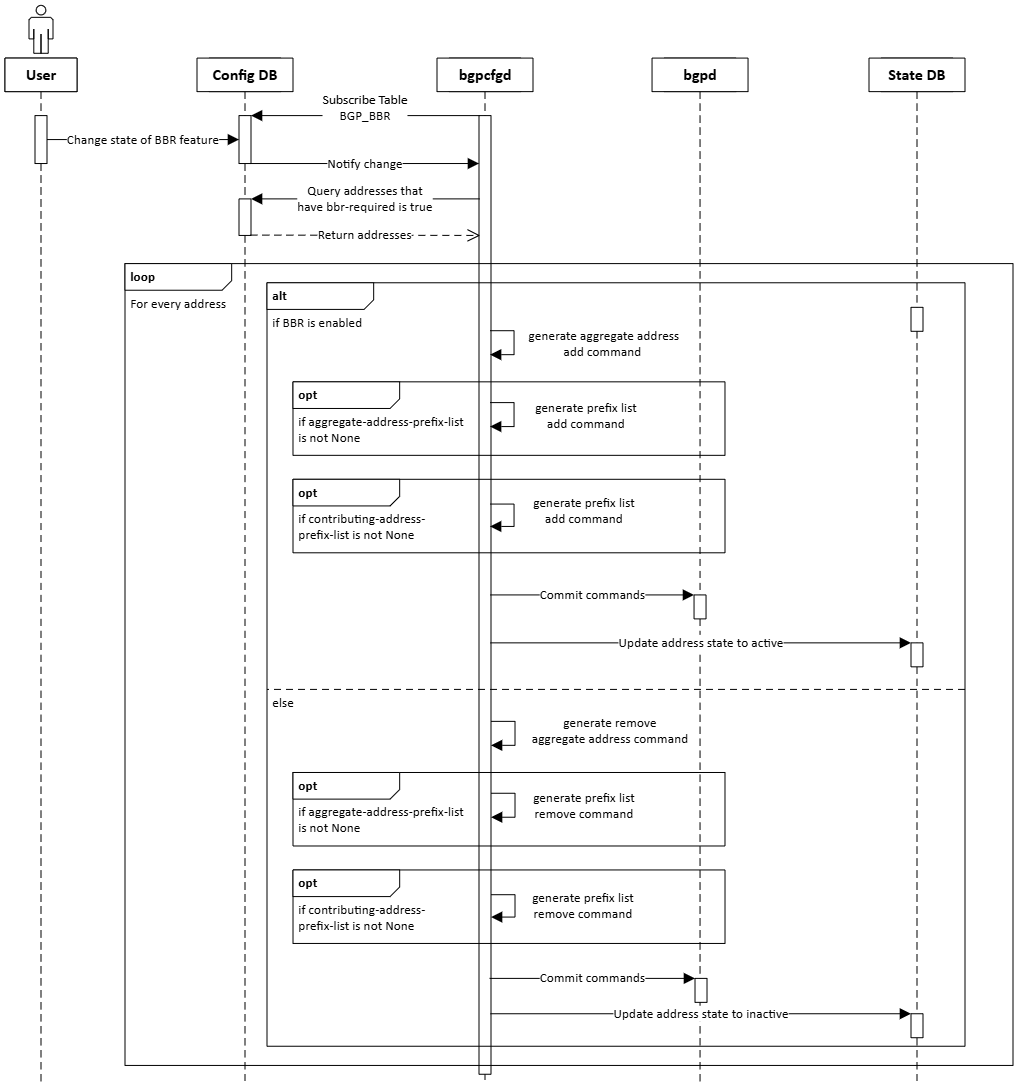
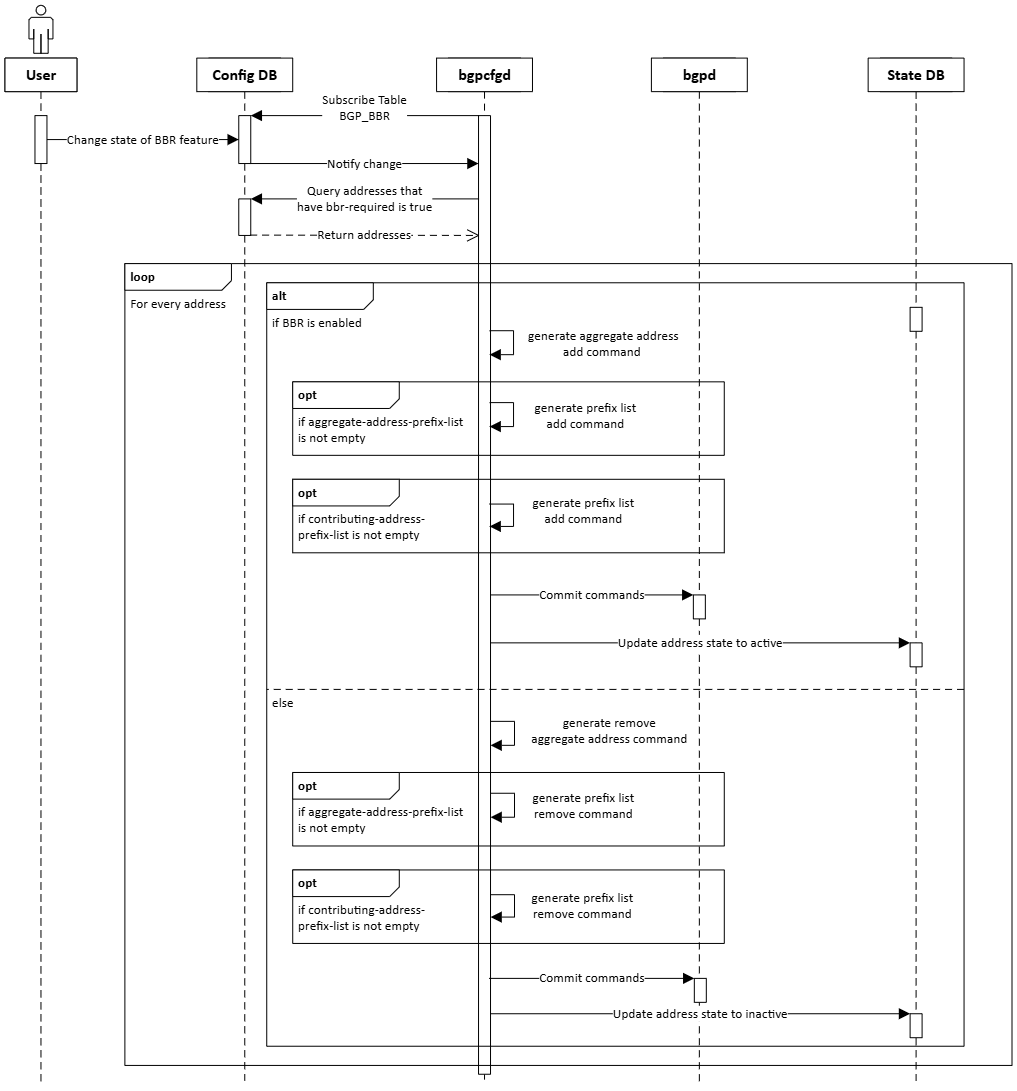
add default value for parameters and update prefix list default from None to empty string

diff --git a/doc/BGP/BGP-route-aggregation-with-bbr-awareness.md b/doc/BGP/BGP-route-aggregation-with-bbr-awareness.md
@@ -69,6 +69,7 @@ The YANG model and config DB demo are showed in below:
 #### Yang Model
 ```
 module sonic-bgp-aggregate-address {
+
     namespace "http://github.com/sonic-net/sonic-bgp-aggregate-address";
 
     prefix bgp-aggregate-address;
@@ -111,27 +112,36 @@ module sonic-bgp-aggregate-address {
 
                 leaf bbr-required {
                     type boolean;
+                    default false;
                     description "Set if BBR is required for generating aggregate address";
                 }
 
                 leaf summary-only {
                     type boolean;
+                    default false;
                     description "Only advertise the summary of aggregate address";
                 }
 
                 leaf as-set {
                     type boolean;
+                    default false;
                     description "Set if include the AS set when advertising the aggregated address";
                 }
 
                 leaf aggregate-address-prefix-list {
-                    type string;
-                    description "The name of prefix list to append the aggregate address";
+                    type string {
+                        pattern "[0-9a-zA-Z_-]*";
+                    }
+                    default "";
+                    description "Set if include the AS set when advertising the aggregated address";
                 }
 
                 leaf contributing-address-prefix-list {
-                    type string;
-                    description "The name of prefix list to append the contributing addresses whose prefix length is greater and equal than the aggregate address";
+                    type string {
+                        pattern "[0-9a-zA-Z_-]*";
+                    }
+                    default "";
+                    description "Set if include the AS set when advertising the aggregated address";
                 }
             }
         }
@@ -199,8 +209,8 @@ For every aggregated address, we track its state in state DB, it has two states 
         },
         "fc00::/63": {
             "state": "active",
-            "aggregate-address-prefix-list": "None",
-            "contributing-address-prefix-list": "None"
+            "aggregate-address-prefix-list": "",
+            "contributing-address-prefix-list": ""
         }
     }
     ...
@@ -226,12 +236,12 @@ The bgp container will subscribe the keys `BGP_AGGREGATE_ADDRESS` and `BGP_BBR` 
     - Remove aggregated address in the bgp container and remove address in state DB.
 3. Enable BBR feature in config DB:
     - In config DB, find out all addresses that has bbr-required equals true and generate aggregated addresses in the bgp container then update state DB with active state.
-        - if aggregate-address-prefix-list is not None, append aggregated address to the prefix list.
-        - if contributing-address-prefix-list is not None, append aggregated address to the prefix list with prefix length filter.
+        - if aggregate-address-prefix-list is not empty string, append aggregated address to the prefix list.
+        - if contributing-address-prefix-list is not empty string, append aggregated address to the prefix list with prefix length filter.
 4. Disable BBR feature in config DB:
     - In config DB, find out all addresses that has bbr-required equals true and remove aggregated addresses in the bgp container then update state DB with inactive state.
-        - if aggregate-address-prefix-list is not None, remove aggregated address from the prefix list.
-        - if contributing-address-prefix-list is not None, remove aggregated address from the prefix list.
+        - if aggregate-address-prefix-list is not empty string, remove aggregated address from the prefix list.
+        - if contributing-address-prefix-list is not empty string, remove aggregated address from the prefix list.
 5. The bgp container restarted:
     - First, the bgp container will clean the addresses in state DB and then the bgp container will process all existed config one by one according to 1~4.
 
@@ -273,7 +283,7 @@ This command is used to show aggregate address in ipv4 address family
   |----------------+---------+-------------+-------------+---------------+-----------------------------+--------------------------------+
   |192.168.0.0/24  |Active   |False        |False        |True           |AGG_ROUTES_V4                |AGG_CONTRIBUTING_ROUTES_V4      |
   +----------------+---------+-------------+-------------+---------------+-----------------------------+--------------------------------+
-  |10.0.0.0/24     |Inactive |True         |True         |False          |None                         |None                            |
+  |10.0.0.0/24     |Inactive |True         |True         |False          |                             |                                |
   +----------------+---------+-------------+-------------+---------------+-----------------------------+--------------------------------+
   ```
 
@@ -293,7 +303,7 @@ This command is used to show aggregate address in ipv6 address family
   |----------------+---------+-------------+-------------+---------------+-----------------------------+--------------------------------+
   |fc00:1::/64     |Active   |False        |False        |True           |AGG_ROUTES_V6                |AGG_CONTRIBUTING_ROUTES_V6      |
   +----------------+---------+-------------+-------------+---------------+-----------------------------+--------------------------------+
-  |fc00:3::/64     |Inactive |True         |True         |False          |None                         |None                            |
+  |fc00:3::/64     |Inactive |True         |True         |False          |                             |                                |
   +----------------+---------+-------------+-------------+---------------+-----------------------------+--------------------------------+
   ```
 
